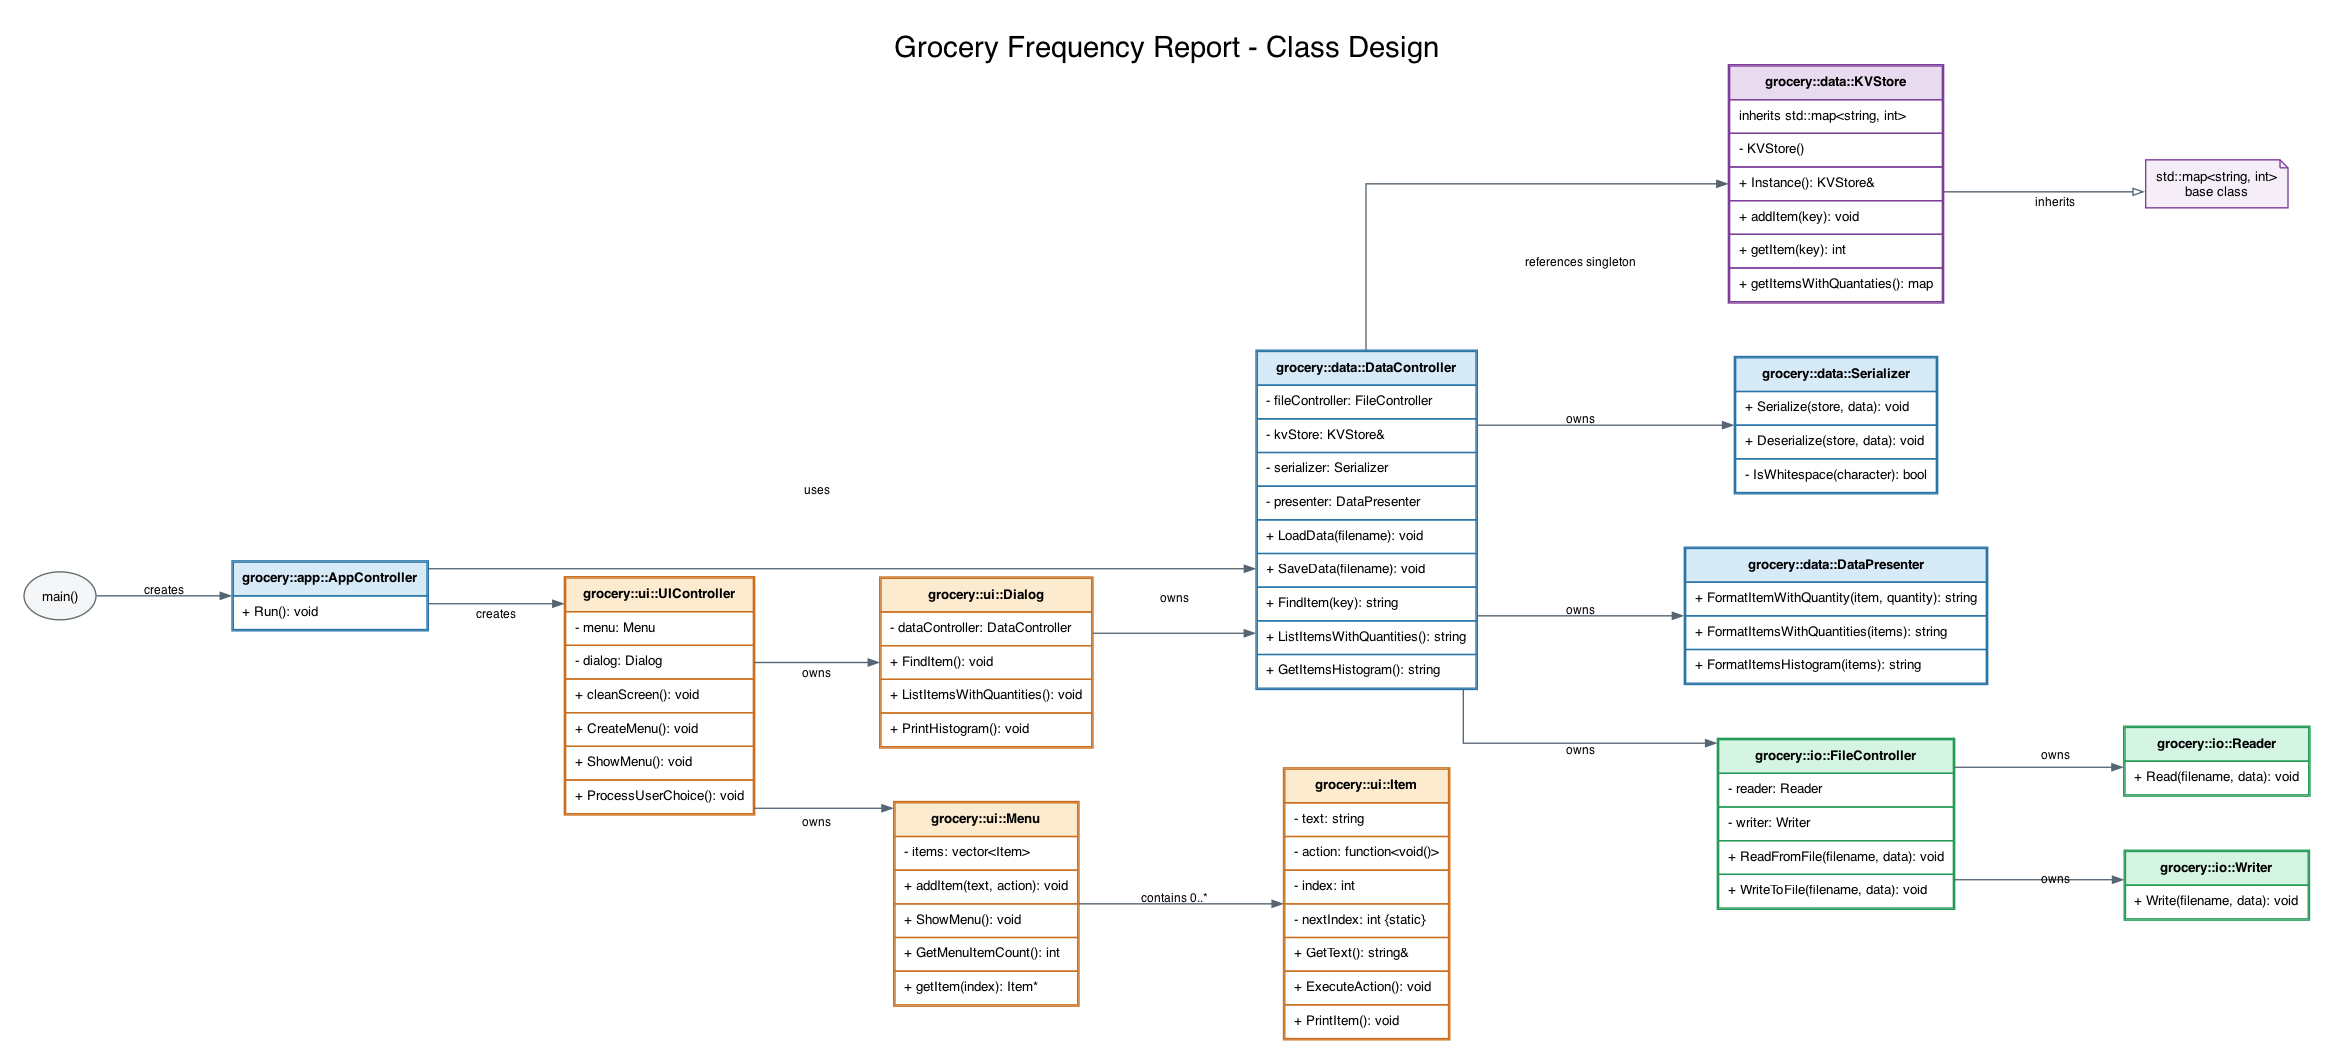
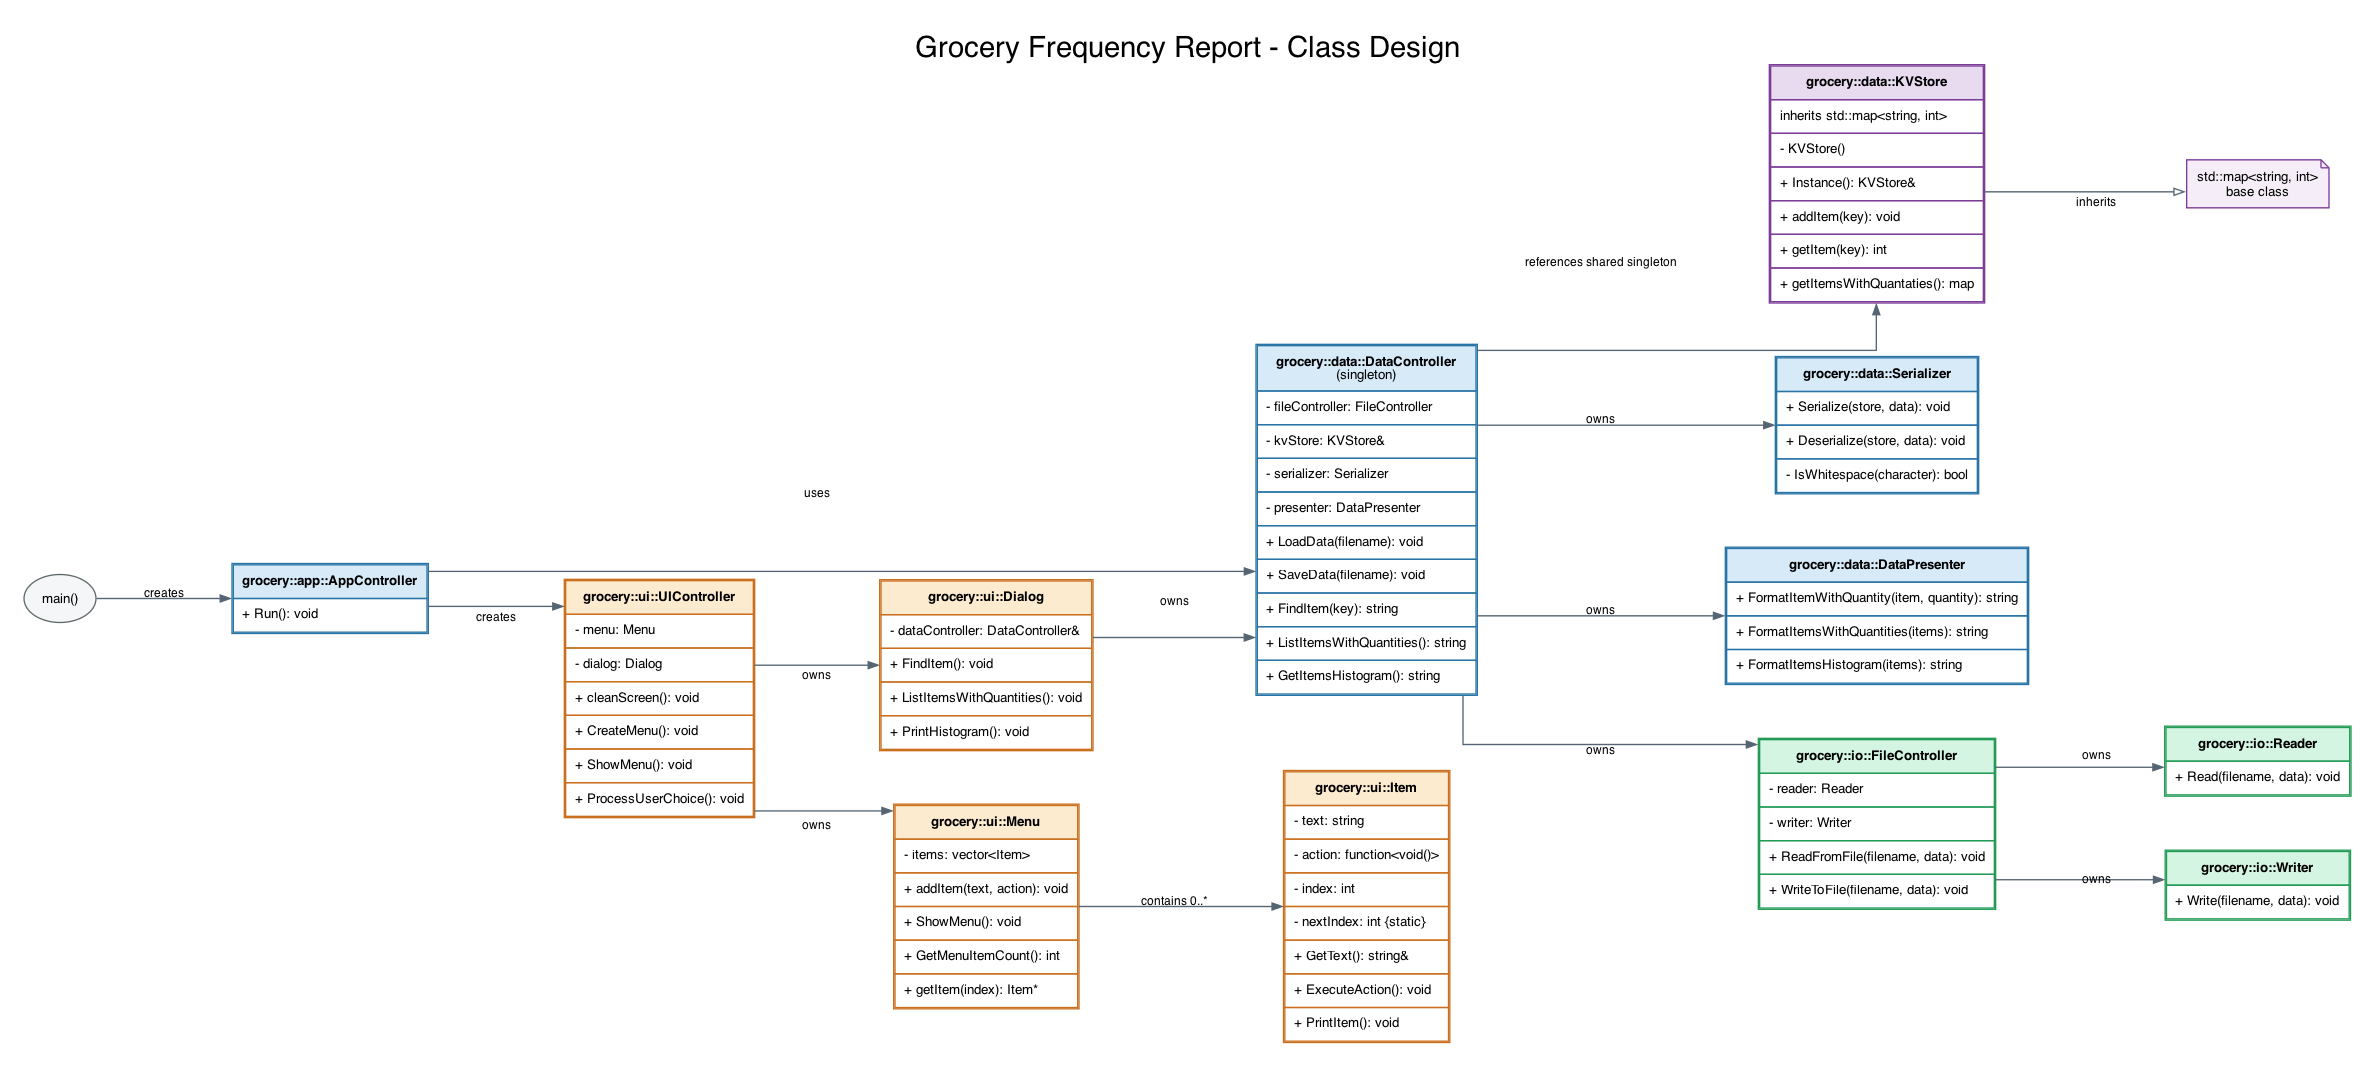
make the datacontroller a singleton to lower memory usage

Changed region(s): [[0.0, 0.062, 1.0, 0.9925], [0.3702, 0.031, 0.617, 0.062], [0.6478, 0.2171, 0.7095, 0.2481]]

diff --git a/include/grocery/data/controller.hpp b/include/grocery/data/controller.hpp
@@ -11,23 +11,33 @@
 #include "include/grocery/data/presenter.hpp"
 namespace grocery::data
 {
-    /** @brief Coordinates persistence, storage, and presentation of grocery data. */
+    /**
+     * @brief Singleton that coordinates persistence, storage, and presentation.
+     *
+     * Call Instance() to access the one controller shared by the application.
+     */
     class DataController
     {
     public:
-        /** @brief Construct a data-operation controller. */
-        DataController() = default;
+        /**
+         * @brief Return the process-wide data controller.
+         * @return Reference to the singleton controller.
+         */
+        static DataController &Instance();
 
-        /** @brief Destroy the data-operation controller. */
-        virtual ~DataController() = default;
+        /** @brief Prevent copying the process-wide controller. */
+        DataController(const DataController &) = delete;
+
+        /** @brief Prevent assigning the process-wide controller. */
+        DataController &operator=(const DataController &) = delete;
 
         /**
-         * @brief Loads item records from a text file into the shared data store.
+         * @brief Loads item records into the shared singleton data store.
          * @param filename Path of the file to read.
          * @throws std::runtime_error If the file cannot be opened.
          *
-         * Loading adds to the existing singleton store; it does not clear
-         * records that were loaded previously.
+         * Loading adds to the existing store; it does not clear records that
+         * were loaded previously.
          */
         void LoadData(const std::string &filename);
 
@@ -58,6 +68,12 @@ namespace grocery::data
         std::string GetItemsHistogram() const;
 
     private:
+        /** @brief Construct the singleton; only Instance() may call this. */
+        DataController() = default;
+
+        /** @brief Destroy the process-wide controller at program termination. */
+        ~DataController() = default;
+
         grocery::io::FileController fileController;
         grocery::data::KVStore &kvStore = grocery::data::KVStore::Instance();
         grocery::data::Serializer serializer;

diff --git a/src/grocery/data/controller.cpp b/src/grocery/data/controller.cpp
@@ -8,6 +8,16 @@
 namespace grocery::data
 {
     /**
+     * @brief Return the lazily initialized shared data controller.
+     * @return Reference to the one controller used by the application.
+     */
+    DataController &DataController::Instance()
+    {
+        static DataController instance;
+        return instance;
+    }
+
+    /**
      * @brief Read raw grocery records and add them to the shared store.
      * @param filename Path of the input file.
      */
@@ -52,7 +62,7 @@ namespace grocery::data
      */
     std::string DataController::ListItemsWithQuantities() const
     {
-        // Presenters receive copies rather than direct access to the singleton.
+        // Presenters receive copies rather than direct access to the shared store.
         auto items = kvStore.getItemsWithQuantaties();
         return presenter.FormatItemsWithQuantities(items);
     }

diff --git a/include/grocery/ui/dialog.hpp b/include/grocery/ui/dialog.hpp
@@ -8,17 +8,20 @@
 #include "grocery/data/controller.hpp"
 namespace grocery::ui
 {
-    /** @brief Provides interactive dialogs for grocery data operations. */
+    /**
+     * @brief Provides interactive dialogs backed by the shared data controller.
+     */
     class Dialog
     {
     private:
-        grocery::data::DataController dataController;
+        grocery::data::DataController &dataController =
+            grocery::data::DataController::Instance();
 
     public:
-        /** @brief Construct a dialog backed by a data controller. */
+        /** @brief Construct a dialog using DataController::Instance(). */
         Dialog() = default;
 
-        /** @brief Destroy the dialog and its data controller. */
+        /** @brief Destroy the dialog without owning the shared data controller. */
         virtual ~Dialog() = default;
 
         /**

diff --git a/src/grocery/app/controller.cpp b/src/grocery/app/controller.cpp
@@ -17,7 +17,8 @@ namespace grocery::app
      */
     void AppController::Run()
     {
-        grocery::data::DataController dataController;
+        // Use the same data controller that the interactive dialogs access.
+        auto &dataController = grocery::data::DataController::Instance();
 
         // Build the initial frequency table from the supplied input file.
         dataController.LoadData(INPUT_FILE);
